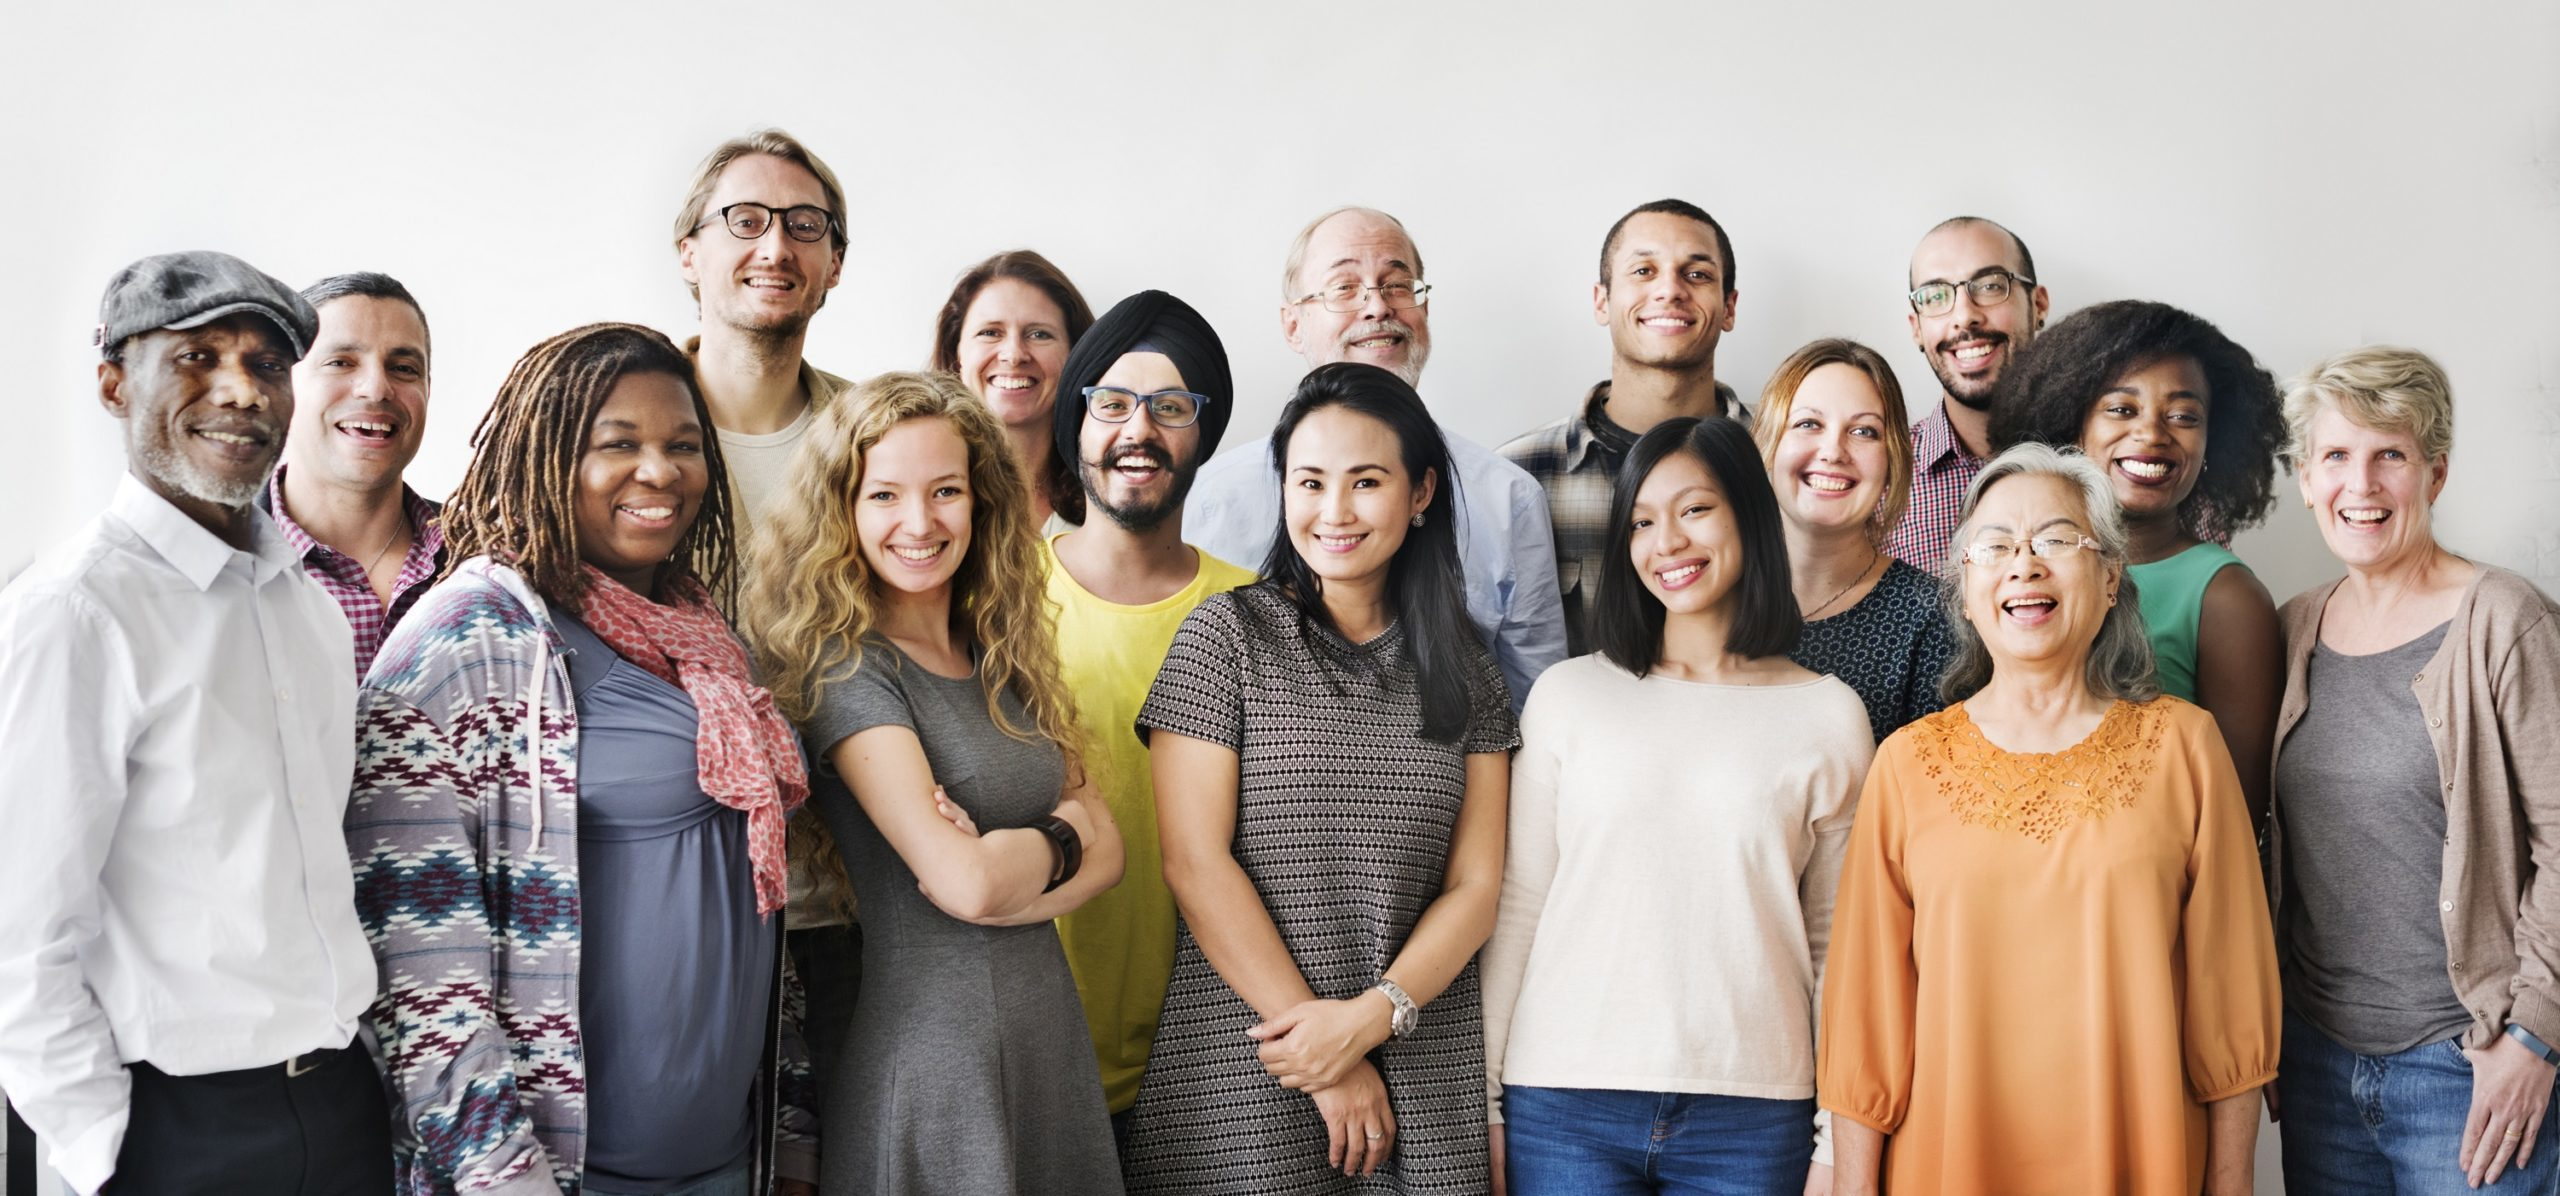
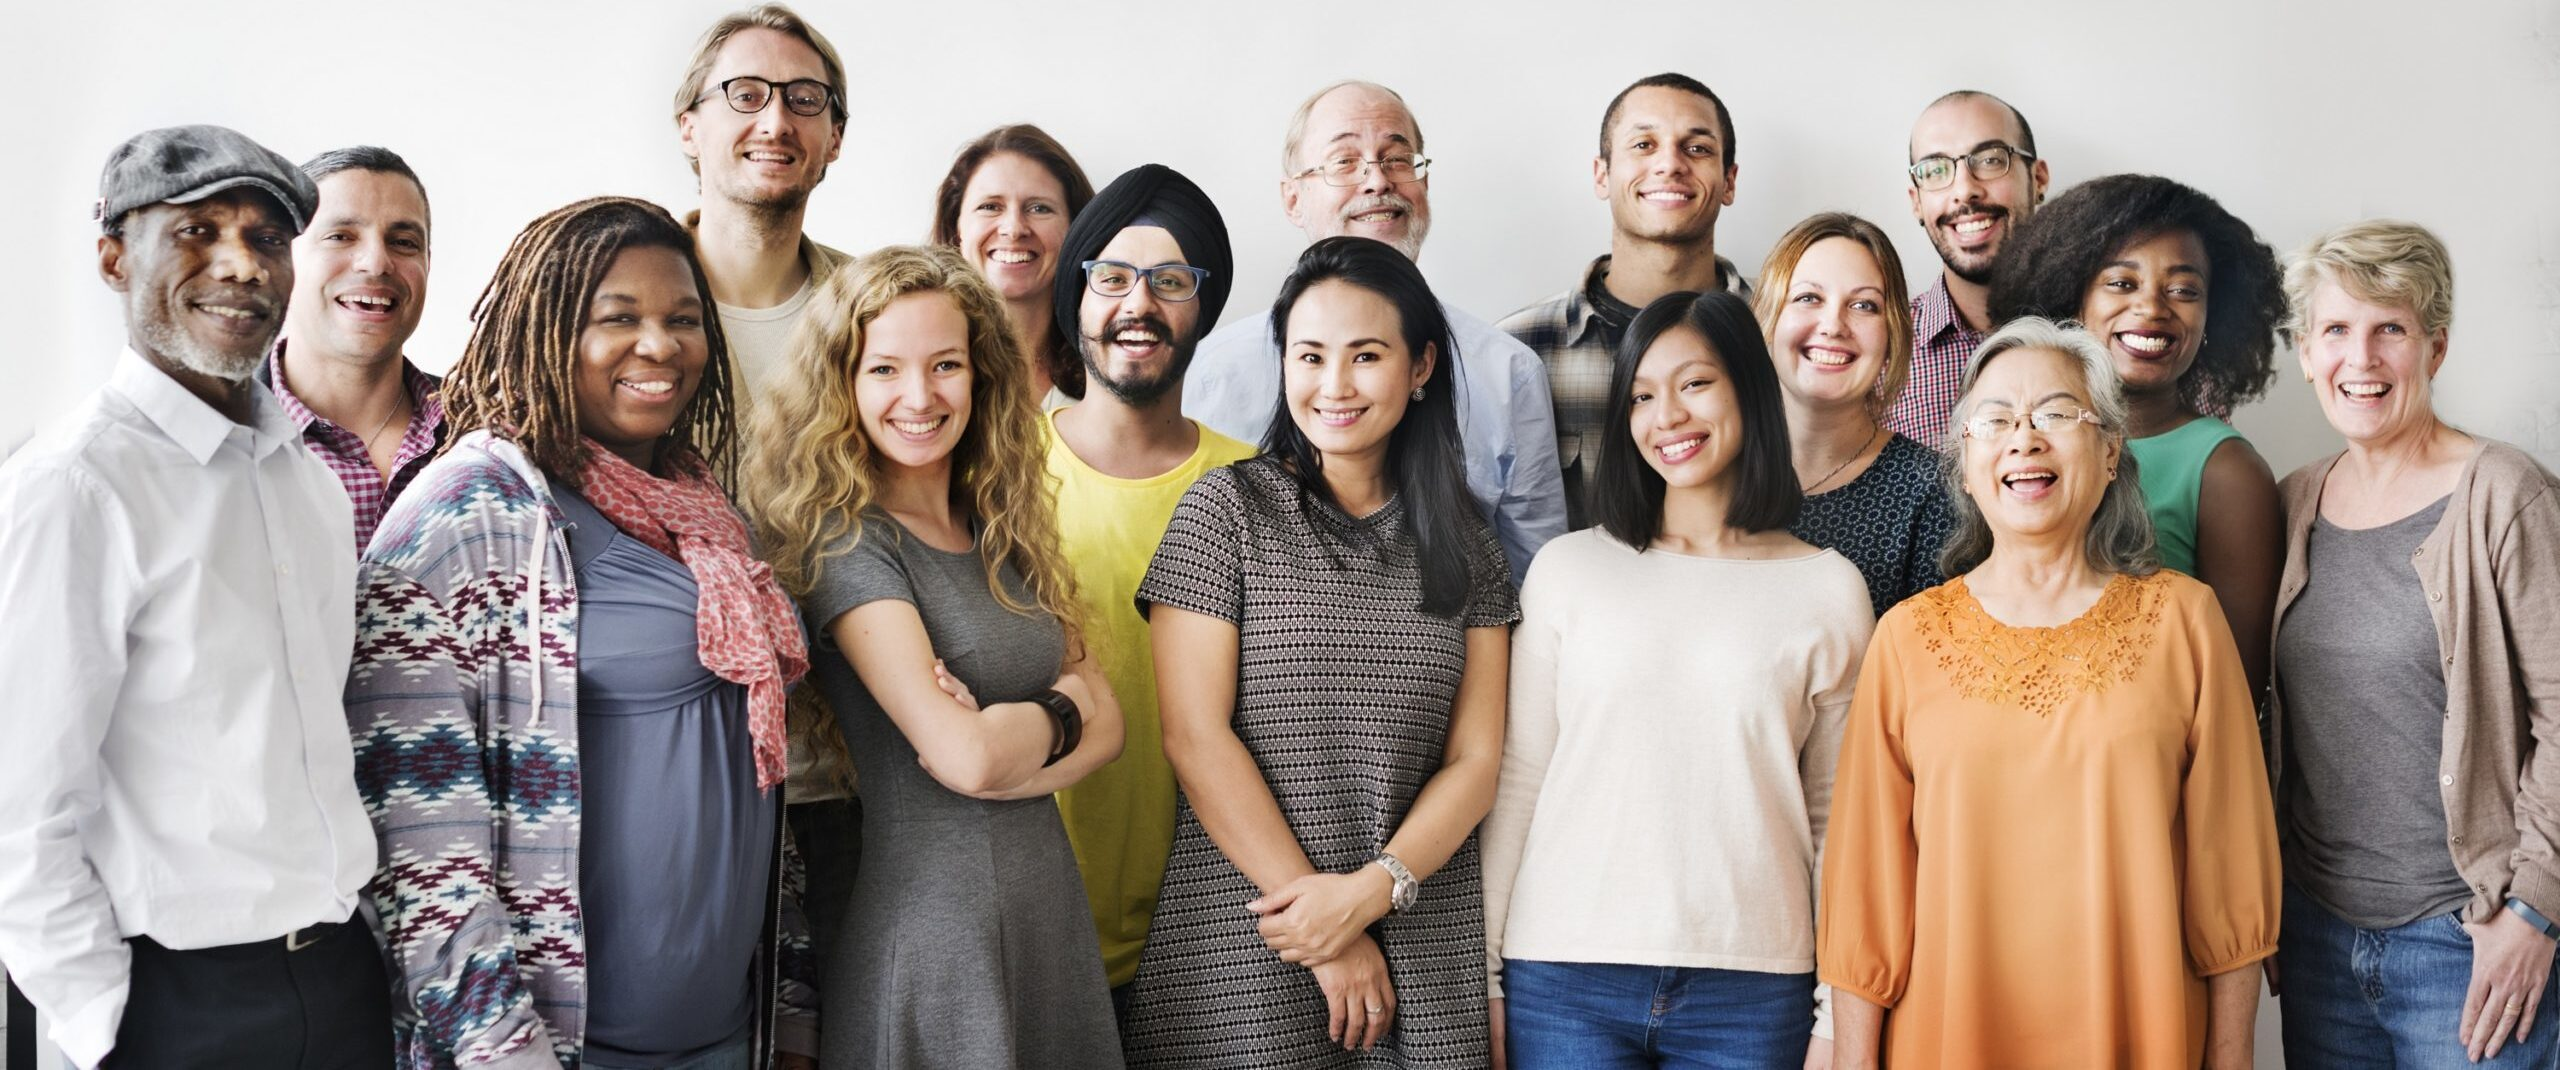
Adjust nav not absolute

diff --git a/src/pages/index.tsx b/src/pages/index.tsx
@@ -12,13 +12,13 @@ const Home: NextPage = () => {
   return (
     <>
       <HtmlHead />
-      <Navbar classNameExtras="absolute" />
+      <Navbar />
       <img
         className="w-full"
         src="./images/homepage.jpg"
         alt="Image of diverse set of people"
       />
-      <div className="h-2/6 w-full bg-gradient-to-r from-[#47B2FF] to-[#003256]">
+      <div className="absolute bottom-0 h-2/6 w-full bg-gradient-to-r from-[#47B2FF] to-[#003256]">
         <div className="flex h-full flex-col items-center justify-center text-center font-normal text-white">
           <p className="mb-5 w-[50rem] text-5xl">
             All inclusive space for educating about different cultures!

diff --git a/src/pages/components/navbar.tsx b/src/pages/components/navbar.tsx
@@ -4,7 +4,7 @@ const Navbar: React.FC<{ classNameExtras?: string }> = ({
   return (
     <nav
       className={
-        "flex h-16 w-full items-center justify-between text-2xl " +
+        "flex h-16 w-full items-center justify-between bg-[#EFEFEF] text-2xl " +
         classNameExtras
       }
     >
